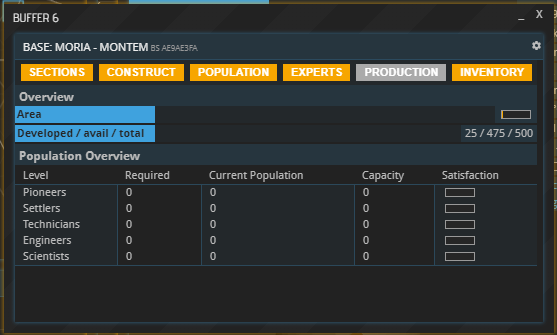
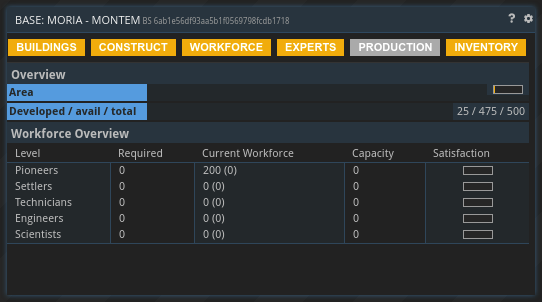
Replace population with workforce where necessary
ecosim/ecosim-server#289

diff --git a/content/tutorials/commands/_index.md b/content/tutorials/commands/_index.md
@@ -28,7 +28,7 @@ Commands are not case-sensitive, meaning that you can use uppercase or lowercase
 
 ![Case insensitivity](case-insensitivity.gif)
 
-Every tile and every buffer in APEX corresponds to a command, no matter which way you opened it. The command can always be seen right next to the window’s title. Take for example the Base command shortcut: In the buffer that opened up, you can see a that it corresponds to the “Base” command, even though you did not enter it by hand. Clicking “View Base” from there opens a specific base using the same command, followed by a parameter. Clicking “Population” calls the “POP” command, clicking “Production” calls the “PROD” command, clicking “Inventory” calls the “INVP” command and so forth.
+Every tile and every buffer in APEX corresponds to a command, no matter which way you opened it. The command can always be seen right next to the window’s title. Take for example the Base command shortcut: In the buffer that opened up, you can see a that it corresponds to the “Base” command, even though you did not enter it by hand. Clicking “View Base” from there opens a specific base using the same command, followed by a parameter. Clicking “Workforce” calls the “WF” command, clicking “Production” calls the “PROD” command, clicking “Inventory” calls the “INVP” command and so forth.
 
 ![Commands demonstration](commands-demonstration.gif)
 
@@ -38,7 +38,7 @@ Open up the CMDS buffer by selecting its shortcut on the left side. Looking at t
 
 ![CMDS buffer](cmds-buffer.png)
 
-__Example:__ The “BS” command by itself shows an overview over all your bases. Clicking “View Base” next to a concrete planet in the list opens a new buffer in which the Base command is followed up by the respective base’s ID. Clicking the Sections (“BSL” command), Production (“PROD” command), and Population (“POP” command) buttons in this window, you will find that the base’s ID is used by all these commands as well because they relate to this concrete base’s Sections, Production, and Population. (The Inventory, meanwhile, is followed up with the planet’s identifier.) These three - BSL, PROD and POP - _must_ be followed with a parameter, specifically a base ID. That is because, when looking at Sections, Production Lines, or a Population, it always pertains to a specific base.
+__Example:__ The “BS” command by itself shows an overview over all your bases. Clicking “View Base” next to a concrete planet in the list opens a new buffer in which the Base command is followed up by the respective base’s ID. Clicking the Sections (“BSL” command), Production (“PROD” command), and Workforce (“WF” command) buttons in this window, you will find that the base’s ID is used by all these commands as well because they relate to this concrete base’s Sections, Production, and Workforce. (The Inventory, meanwhile, is followed up with the planet’s identifier.) These three - BSL, PROD and WF - _must_ be followed with a parameter, specifically a base ID. That is because, when looking at Sections, Production Lines, or a Workforce, it always pertains to a specific base.
 
 Another example for the use of (mandatory) parameters would be the “MAT” command. When entered by itself, APEX will wonder which material you want to learn more about. That is why “MAT” must be followed by a material’s ID, like “CUO” for Copper Ore.
 

diff --git a/content/tutorials/trading/_index.md b/content/tutorials/trading/_index.md
@@ -24,7 +24,7 @@ Assuming your planet does have a Commodity Exchange, click its symbol now. You s
 
 You are likely going to need two kinds of resources soon: Consumables to keep your workforce fed and productive, and - unless you possess only production buildings from the Resources tab - input materials for your Production Lines. Sooner or later, you might also need fuel for your ships.
 
-Select the “POPULATION” button in your base overview to view the upkeep of your workforce. As you can see, 4 units of Drinking Water, 4 Rations, and 1 Pioneer Clothing are required per 100 Pioneers. They will be deducted from your Inventory at the start of each 24-hour period. If part of this upkeep is missing, your Pioneers' effiency will go down, and once you run out of supplies entirely, they will go on strike. Decide how many supplies you would like to buy in advance, and make sure you do not spend all your money on them now. Also note that some supplies were already provided to you as part of your starting package.
+Select the “WORKFORCE” button in your base overview to view the upkeep of your workforce. As you can see, 4 units of Drinking Water, 4 Rations, and 1 Pioneer Clothing are required per 100 Pioneers. They will be deducted from your Inventory at the start of each 24-hour period. If part of this upkeep is missing, your Pioneers' efficiency will go down, and once you run out of supplies entirely, they will go on strike. Decide how many supplies you would like to buy in advance, and make sure you do not spend all your money on them now. Also note that some supplies were already provided to you as part of your starting package.
 
 ![Pioneers upkeep](pioneers-upkeep.png)
 

diff --git a/content/wiki/commands-list/_index.md b/content/wiki/commands-list/_index.md
@@ -34,9 +34,9 @@ If no parameters are supplied the command will show a list of all your inventori
 
 If the parameter contains a system or planet address (for example `INV XK-745` or `INV XK-745a`) it will only show inventories at that location.
 
-__POP__  
+__WF__
 _Mandatory parameter: base ID_  
-Shows an overview over a base’s population and their needs. The more sophisticated the population tier, the higher their needs. If you can’t supply your workers with the consumables they need, the efficiency of buildings they operate will drop. Accessible via the “Population” button in a concrete BS window.
+Shows an overview over a base’s workforce and their needs. The more sophisticated the workforce tier, the higher their needs. If you can’t supply your workers with the consumables they need, the efficiency of buildings they operate will drop. Accessible via the “Workforce” button in a concrete BS window.
 
 __EXP__  
 _Mandatory parameter: base ID_  
@@ -243,7 +243,7 @@ __PP__
 _Mandatory parameter: planet & project ID_  
 Shows information on a concrete planetary project. Due to the long and complex parameter, it is recommended to access this information via the “details” button next to the desired project in the PPS buffer.
 
-__POPR__   
+__OPR__
 _Mandatory parameter: planet ID_   
 Shows the population reports of the specified planet with information on the planetary population's size, need satisfaction and growth.
 

diff --git a/content/tutorials/base-setup/_index.md b/content/tutorials/base-setup/_index.md
@@ -33,7 +33,7 @@ Clicking “VIEW BASE” opens a buffer you are going to need a lot: your base o
 
 ![Base buffer](base-buffer.png)
 
-Hitting “Population”, you can see that there are no people in your base yet. Your workforce will be divided into several levels of specialization, from Pioneers to Scientists, each with their own needs to stay nourished and active. Basic Consumables (marked as “Essential”), are more important to your workers' efficiency than Luxury Consumables (not marked as “Essential”). To get an in-depth look at the topic later, keep [this overview](../../wiki/efficiency-factors) handy.
+Hitting “Workforce”, you can see that there are no people in your base yet. Your workforce will be divided into several levels of specialization, from Pioneers to Scientists, each with their own needs to stay nourished and active. Basic Consumables (marked as “Essential”), are more important to your workers' efficiency than Luxury Consumables (not marked as “Essential”). To get an in-depth look at the topic later, keep [this overview](../../wiki/efficiency-factors) handy.
 
 ![Population needs](population-needs.png)
 
